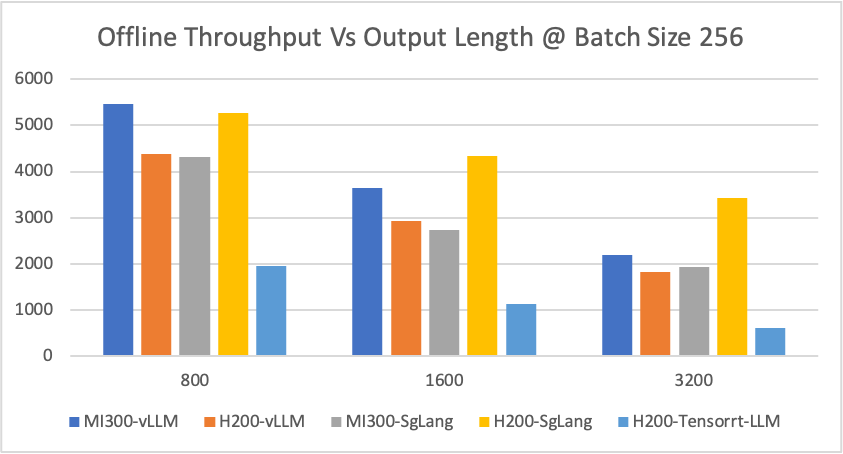
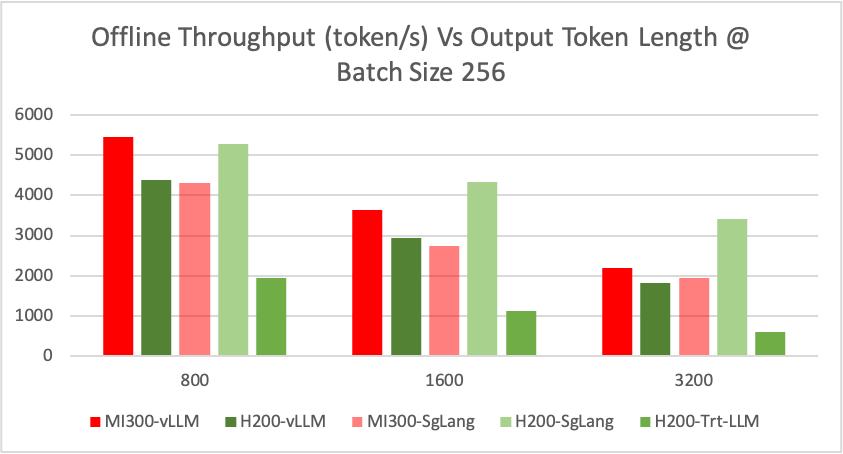
Update Chart Colors

diff --git a/Deepseek-R1/README.md b/Deepseek-R1/README.md
@@ -277,7 +277,7 @@ Mi300 achieves the highest throughput, while H200 performs better at lower concu
 - H200-Tensorrt-LLM lags behind other configurations at concurrency levels below 16, but starts to outperform both Mi300-Sglang and H200-Sglang at concurrency level above 64. 
 
 ![Online Throughput Vs Latency](images/online_throughput_vs_latency.png)
-![Online Throughput Vs Concurrency](images/online-throughput-vs-concurrency.png)
+<!-- ![Online Throughput Vs Concurrency](images/online-throughput-vs-concurrency.png) -->
 
 #### Offline Throughput
 Unlike online throughput results, H200 achieves the highest overall throughput, while Mi300 performs better at smaller batch sizes. vLLM clearly outperforms SgLang on Mi300, whereas SgLang surpasses vLLM on H200 at medium and larger batch sizes.
@@ -297,7 +297,7 @@ Unlike online throughput results, H200 achieves the highest overall throughput, 
 *Note: H200-Trt-LLM has been removed from the above Offline Throughput-Latency chart to avoid scale distortion, 
 which would compress other configurations and make comparisons difficult.*
 
-![Offline Throughput Vs Batch Size](images/offline-throughput-vs-batch-size.png)
+<!-- ![Offline Throughput Vs Batch Size](images/offline-throughput-vs-batch-size.png) -->
 ### Throughput/Latency Vs Output Length
  
 #### Online Throughput/Latency Vs Output Length
